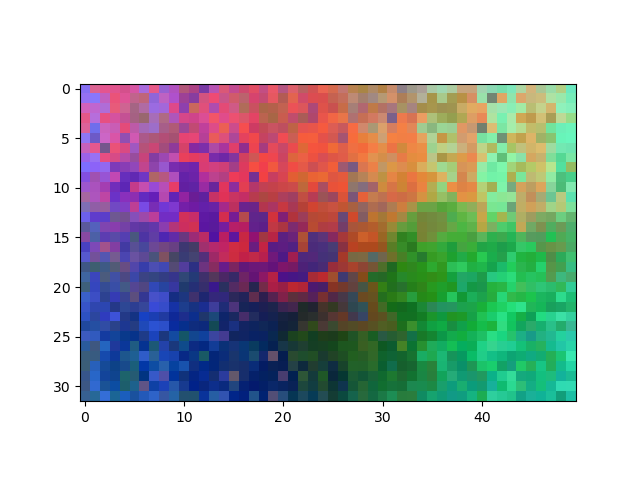
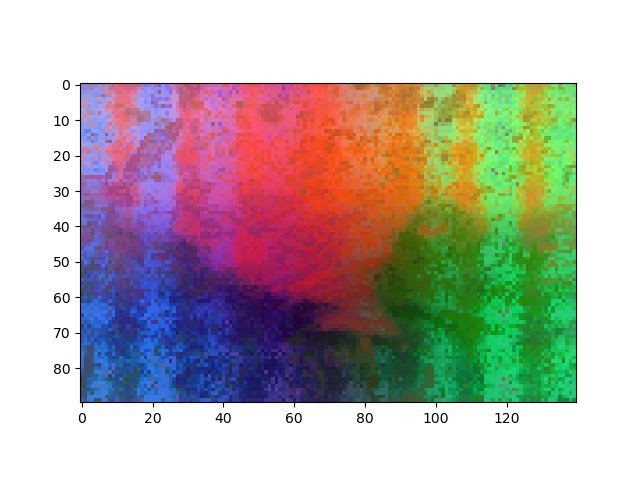
feat_ext

diff --git a/BaseWVN/utils/dinov2_interface.py b/BaseWVN/utils/dinov2_interface.py
@@ -2,15 +2,16 @@ from BaseWVN import WVN_ROOT_DIR
 import torch
 from torchvision import transforms as T
 import time
+from typing import Tuple
 class Dinov2Interface:
     def __init__(
         self,
         device: str,
         input_size: int = 448,
-        original_width: int = 1920,
-        original_height: int = 1080,
+        original_size: Tuple[int, int] = (1920, 1280),
         input_interp: str = "bilinear",
         model_type: str = "vit_small",
+        **kwargs
     ):
        
         self._model_type = model_type
@@ -27,20 +28,23 @@ class Dinov2Interface:
         elif self._model_type == "vit_huge":
             self.model=torch.hub.load('facebookresearch/dinov2', 'dinov2_vitg14')
             self.embed_dim = 1536
-        
+        self.patch_size = 14
         # Send to device
         self.model.to(device)
         self.device = device
 
         self._input_size = input_size
         self._input_interp = input_interp
-        self.original_width = original_width
-        self.original_height = original_height
+        self.original_width = original_size[0]
+        self.original_height = original_size[1]
         # Interpolation type
         if self._input_interp == "bilinear":
             self.interp = T.InterpolationMode.BILINEAR
         elif self._input_interp == "nearest":
             self.interp = T.InterpolationMode.NEAREST
+        elif self._input_interp == "bicubic":
+            self.interp = T.InterpolationMode.BICUBIC
+        self.center_crop=kwargs.get('center_crop', True)
         self.transform=self._create_transform()
 
     def _create_transform(self):
@@ -49,13 +53,20 @@ class Dinov2Interface:
         if aspect_ratio > 1:  # If width > height, scale by height (1280 -> 448)
             new_height = self._input_size
             new_width = int(new_height * aspect_ratio)
+            # check if new_width is a multiple of self.patch_size
+            if new_width % self.patch_size != 0:
+                new_width=new_width-new_width%self.patch_size
         else:  # If height >= width, scale by width (1920 -> 448)
             new_width = self._input_size
             new_height = int(new_width / aspect_ratio)
+            # check if new_height is a multiple of self.patch_size
+            if new_height % self.patch_size != 0:
+                new_height=new_height-new_height%self.patch_size
 
         # Resize and then center crop to the expected input size
         transform = T.Compose([
             T.Resize((new_height, new_width),self.interp),
+            T.CenterCrop(self._input_size) if self.center_crop else T.CenterCrop((new_height, new_width)),
             T.ConvertImageDtype(torch.float),
             T.Normalize(mean=[0.485, 0.456, 0.406], std=[0.229, 0.224, 0.225]),
         ])
@@ -78,6 +89,15 @@ class Dinov2Interface:
         feat = self.model.forward_features(img)["x_norm_patchtokens"]
         return feat
     
+    def change_device(self, device):
+        """Changes the device of all the class members
+
+        Args:
+            device (str): new device
+        """
+        self.model.to(device)
+        self.device = device
+    
 if __name__=="__main__":
     import os
     import cv2
@@ -85,8 +105,8 @@ if __name__=="__main__":
 
     # Initialize the interface with the desired device and parameters
     # Load an image and convert it to a PyTorch tensor
-    image_relative_path = 'image/hiking.png'  # Update to the relative path of your image
-    feat_relative_path = 'image/hiking_feat.png'
+    image_relative_path = 'image/hiking_2.jpeg'  # Update to the relative path of your image
+    feat_relative_path = 'image/hiking_2_feat.png'
     # Use os.path.join to get the full path of the image
     image_path = os.path.join(WVN_ROOT_DIR, image_relative_path)
     device = 'cuda' if torch.cuda.is_available() else 'cpu'
@@ -95,10 +115,11 @@ if __name__=="__main__":
     img = img.permute(2, 0, 1)
     img = (img.type(torch.float32) / 255)[None]
     
-    
+    input_size = 1260
     # If you have a GPU with CUDA support, use 'cuda', otherwise 'cpu'
-    device = 'cuda:0' if torch.cuda.is_available() else 'cpu'
-    dinov2_interface = Dinov2Interface(device=device, model_type="vit_small", input_size=448, original_width=img.shape[-1], original_height=img.shape[-2], input_interp="bilinear")
+    device = 'cuda' if torch.cuda.is_available() else 'cpu'
+    # W,H for original image size input
+    dinov2_interface = Dinov2Interface(device=device, model_type="vit_small", input_size=input_size, original_size=(img.shape[-1], img.shape[-2]), input_interp="bilinear",center_crop=False)
 
  
     start_time = time.time()
@@ -123,10 +144,13 @@ if __name__=="__main__":
     pca.fit(features)
 
     pca_features = pca.transform(features)
-    pca_features = (pca_features - pca_features.min()) / (pca_features.max() - pca_features.min())
+    for i in range(3):
+        pca_features[:, i] = (pca_features[:, i] - pca_features[:, i].min()) / (pca_features[:, i].max() - pca_features[:, i].min())
+    # pca_features = (pca_features - pca_features.min()) / (pca_features.max() - pca_features.min())
     pca_features = pca_features * 255
-
-    plt.imshow(pca_features.reshape(32, 50, 3).astype(np.uint8))
+    feat_height = int(input_size / 14)
+    feat_width = int(input_size/img.shape[-2]*img.shape[-1] / 14) 
+    plt.imshow(pca_features.reshape(feat_height, feat_width, 3).astype(np.uint8))
     image_path = os.path.join(WVN_ROOT_DIR, feat_relative_path)
     plt.savefig(image_path)
 

diff --git a/BaseWVN/utils/feat_extractor.py b/BaseWVN/utils/feat_extractor.py
@@ -25,7 +25,7 @@ class FeatureExtractor:
         self.interp=kwargs.get('interp', 'bilinear')
         # feature extractor
         if self._feature_type == "dinov2":
-            self.extractor=Dinov2Interface(device, input_size=self._input_size, original_width=self.original_width, original_height=self.original_height, input_interp=self.interp)
+            self.extractor=Dinov2Interface(device, input_size=self._input_size, original_size=(self.original_width,self.original_height), input_interp=self.interp)
         else:
             raise ValueError(f"Extractor[{self._feature_type}] not supported!")
         
@@ -39,10 +39,7 @@ class FeatureExtractor:
             )
         else:
             raise ValueError(f"Segmentation[{self._segmentation_type}] not supported!")
-        
-
-
-    
+         
     @property
     def feature_type(self):
         return self._feature_type
@@ -63,3 +60,23 @@ class FeatureExtractor:
         """
         self._device = device
         self.extractor.change_device(device)
+
+    def compute_segments(self, img: torch.tensor, **kwargs):
+        if self._segmentation_type=="pixel":
+            seg=self.segment_pixelwise(img, **kwargs)
+        elif self._segmentation_type=="slic":
+            seg=self.segment_slic(img, **kwargs)
+        return seg
+    
+    def segment_pixelwise(self, img: torch.tensor, **kwargs):
+        # Generate pixel-wise segmentation
+        B, C, H, W = img.shape
+        seg = torch.arange(0, H * W, 1).reshape(H, W).to(self._device)
+        return seg
+    
+    def segment_slic(self, img: torch.tensor, **kwargs):
+        # transform image to numpy
+        B, C, H, W = img.shape
+        img_np = img.cpu().numpy()
+        seg = self.slic.iterate(np.uint8(np.ascontiguousarray(img_np) * 255))
+        return torch.from_numpy(seg).to(self._device).type(torch.long)
